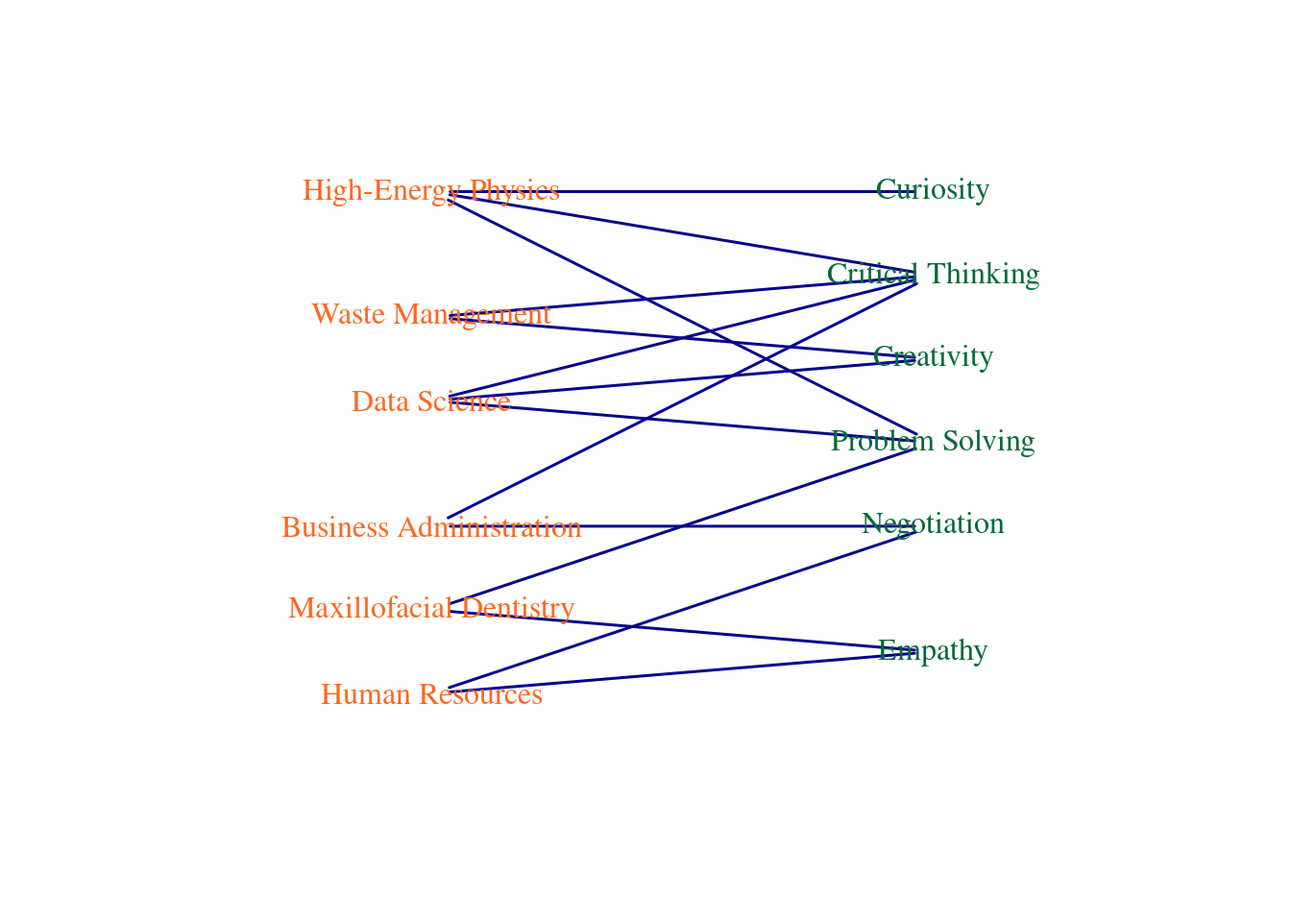
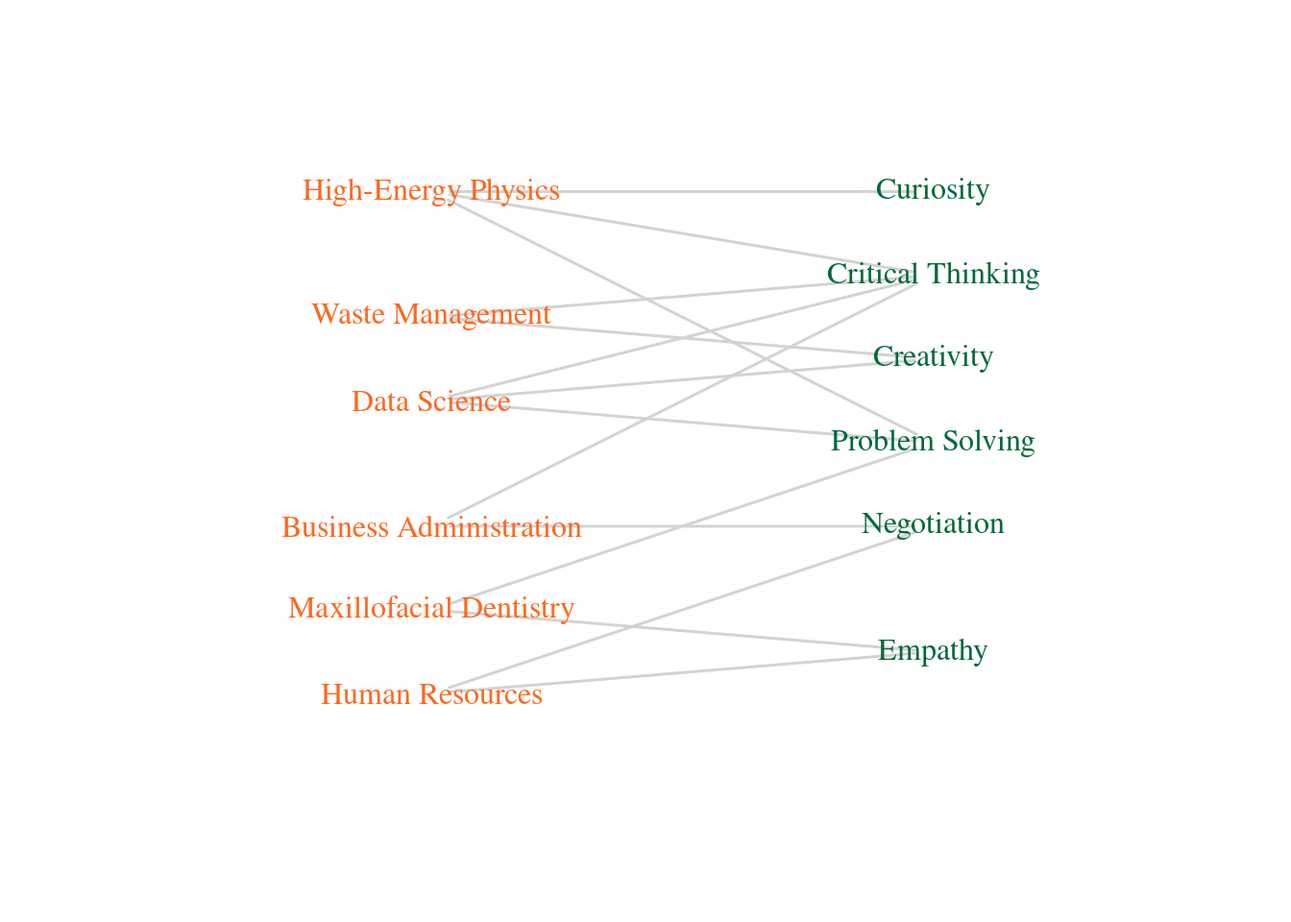
Compilations

diff --git a/_book/midiendo-la-importancia-de-las-habilidades-blandas-en-la-oferta-de-postgrado.html b/_book/midiendo-la-importancia-de-las-habilidades-blandas-en-la-oferta-de-postgrado.html
@@ -189,166 +189,30 @@ div.csl-indent {
 <div id="midiendo-la-importancia-de-las-habilidades-blandas-en-la-oferta-de-postgrado" class="section level1 hasAnchor" number="4">
 <h1><span class="header-section-number">4</span> Midiendo la importancia de las “habilidades blandas” en la oferta de postgrado<a href="midiendo-la-importancia-de-las-habilidades-blandas-en-la-oferta-de-postgrado.html#midiendo-la-importancia-de-las-habilidades-blandas-en-la-oferta-de-postgrado" class="anchor-section" aria-label="Anchor link to header"></a></h1>
 <p>En un trabajo recientemente publicado, <span class="citation">(<a href="referencias.html#ref-Cortes2016">Cortés-Berrueco, Gershenson, and Stephens 2016</a>)</span></p>
-<div class="sourceCode" id="cb1"><pre class="sourceCode r"><code class="sourceCode r"><span id="cb1-1"><a href="midiendo-la-importancia-de-las-habilidades-blandas-en-la-oferta-de-postgrado.html#cb1-1" tabindex="-1"></a><span class="fu">library</span>(knitr)</span>
-<span id="cb1-2"><a href="midiendo-la-importancia-de-las-habilidades-blandas-en-la-oferta-de-postgrado.html#cb1-2" tabindex="-1"></a><span class="fu">library</span>(broom)</span>
-<span id="cb1-3"><a href="midiendo-la-importancia-de-las-habilidades-blandas-en-la-oferta-de-postgrado.html#cb1-3" tabindex="-1"></a><span class="fu">library</span>(kableExtra)</span>
-<span id="cb1-4"><a href="midiendo-la-importancia-de-las-habilidades-blandas-en-la-oferta-de-postgrado.html#cb1-4" tabindex="-1"></a><span class="fu">setwd</span>(<span class="st">&quot;Data&quot;</span>)</span>
-<span id="cb1-5"><a href="midiendo-la-importancia-de-las-habilidades-blandas-en-la-oferta-de-postgrado.html#cb1-5" tabindex="-1"></a>data <span class="ot">&lt;-</span> readr<span class="sc">::</span><span class="fu">read_csv</span>(<span class="st">&quot;Data_Figure2.csv&quot;</span>)</span>
-<span id="cb1-6"><a href="midiendo-la-importancia-de-las-habilidades-blandas-en-la-oferta-de-postgrado.html#cb1-6" tabindex="-1"></a>html_table <span class="ot">&lt;-</span> <span class="fu">kable</span>(data, <span class="at">format =</span> <span class="st">&quot;html&quot;</span>)<span class="sc">%&gt;%</span></span>
-<span id="cb1-7"><a href="midiendo-la-importancia-de-las-habilidades-blandas-en-la-oferta-de-postgrado.html#cb1-7" tabindex="-1"></a>  <span class="fu">kable_styling</span>()</span>
-<span id="cb1-8"><a href="midiendo-la-importancia-de-las-habilidades-blandas-en-la-oferta-de-postgrado.html#cb1-8" tabindex="-1"></a></span>
-<span id="cb1-9"><a href="midiendo-la-importancia-de-las-habilidades-blandas-en-la-oferta-de-postgrado.html#cb1-9" tabindex="-1"></a><span class="co"># Print the HTML table</span></span>
-<span id="cb1-10"><a href="midiendo-la-importancia-de-las-habilidades-blandas-en-la-oferta-de-postgrado.html#cb1-10" tabindex="-1"></a>html_table</span></code></pre></div>
-<table class="table" style="margin-left: auto; margin-right: auto;">
-<thead>
-<tr>
-<th style="text-align:left;">
-Soft Skill
-</th>
-<th style="text-align:left;">
-Program
-</th>
-</tr>
-</thead>
-<tbody>
-<tr>
-<td style="text-align:left;">
-Critical Thinking
-</td>
-<td style="text-align:left;">
-High-Energy Physics
-</td>
-</tr>
-<tr>
-<td style="text-align:left;">
-Critical Thinking
-</td>
-<td style="text-align:left;">
-Data Science
-</td>
-</tr>
-<tr>
-<td style="text-align:left;">
-Critical Thinking
-</td>
-<td style="text-align:left;">
-Waste Management
-</td>
-</tr>
-<tr>
-<td style="text-align:left;">
-Critical Thinking
-</td>
-<td style="text-align:left;">
-Business Administration
-</td>
-</tr>
-<tr>
-<td style="text-align:left;">
-Problem Solving
-</td>
-<td style="text-align:left;">
-High-Energy Physics
-</td>
-</tr>
-<tr>
-<td style="text-align:left;">
-Problem Solving
-</td>
-<td style="text-align:left;">
-Data Science
-</td>
-</tr>
-<tr>
-<td style="text-align:left;">
-Problem Solving
-</td>
-<td style="text-align:left;">
-Maxillofacial Dentistry
-</td>
-</tr>
-<tr>
-<td style="text-align:left;">
-Creativity
-</td>
-<td style="text-align:left;">
-Data Science
-</td>
-</tr>
-<tr>
-<td style="text-align:left;">
-Creativity
-</td>
-<td style="text-align:left;">
-Waste Management
-</td>
-</tr>
-<tr>
-<td style="text-align:left;">
-Curiosity
-</td>
-<td style="text-align:left;">
-High-Energy Physics
-</td>
-</tr>
-<tr>
-<td style="text-align:left;">
-Negotiation
-</td>
-<td style="text-align:left;">
-Business Administration
-</td>
-</tr>
-<tr>
-<td style="text-align:left;">
-Negotiation
-</td>
-<td style="text-align:left;">
-Human Resources
-</td>
-</tr>
-<tr>
-<td style="text-align:left;">
-Empathy
-</td>
-<td style="text-align:left;">
-Maxillofacial Dentistry
-</td>
-</tr>
-<tr>
-<td style="text-align:left;">
-Empathy
-</td>
-<td style="text-align:left;">
-Human Resources
-</td>
-</tr>
-</tbody>
-</table>
-<div class="sourceCode" id="cb2"><pre class="sourceCode r"><code class="sourceCode r"><span id="cb2-1"><a href="midiendo-la-importancia-de-las-habilidades-blandas-en-la-oferta-de-postgrado.html#cb2-1" tabindex="-1"></a><span class="fu">library</span>(igraph)</span>
-<span id="cb2-2"><a href="midiendo-la-importancia-de-las-habilidades-blandas-en-la-oferta-de-postgrado.html#cb2-2" tabindex="-1"></a>bn <span class="ot">&lt;-</span> <span class="fu">graph_from_data_frame</span>(data, <span class="at">directed =</span> <span class="cn">FALSE</span>)</span>
-<span id="cb2-3"><a href="midiendo-la-importancia-de-las-habilidades-blandas-en-la-oferta-de-postgrado.html#cb2-3" tabindex="-1"></a></span>
-<span id="cb2-4"><a href="midiendo-la-importancia-de-las-habilidades-blandas-en-la-oferta-de-postgrado.html#cb2-4" tabindex="-1"></a><span class="fu">bipartite.mapping</span>(bn)</span></code></pre></div>
+<div class="sourceCode" id="cb1"><pre class="sourceCode r"><code class="sourceCode r"><span id="cb1-1"><a href="midiendo-la-importancia-de-las-habilidades-blandas-en-la-oferta-de-postgrado.html#cb1-1" tabindex="-1"></a><span class="fu">library</span>(igraph)</span>
+<span id="cb1-2"><a href="midiendo-la-importancia-de-las-habilidades-blandas-en-la-oferta-de-postgrado.html#cb1-2" tabindex="-1"></a>bn <span class="ot">&lt;-</span> <span class="fu">graph_from_data_frame</span>(data, <span class="at">directed =</span> <span class="cn">FALSE</span>)</span>
+<span id="cb1-3"><a href="midiendo-la-importancia-de-las-habilidades-blandas-en-la-oferta-de-postgrado.html#cb1-3" tabindex="-1"></a></span>
+<span id="cb1-4"><a href="midiendo-la-importancia-de-las-habilidades-blandas-en-la-oferta-de-postgrado.html#cb1-4" tabindex="-1"></a><span class="fu">bipartite.mapping</span>(bn)</span></code></pre></div>
 <pre><code>## $res
 ## [1] TRUE
 ## 
 ## $type
 ##  [1] FALSE FALSE FALSE FALSE FALSE FALSE  TRUE  TRUE  TRUE  TRUE  TRUE  TRUE</code></pre>
-<div class="sourceCode" id="cb4"><pre class="sourceCode r"><code class="sourceCode r"><span id="cb4-1"><a href="midiendo-la-importancia-de-las-habilidades-blandas-en-la-oferta-de-postgrado.html#cb4-1" tabindex="-1"></a><span class="fu">V</span>(bn)<span class="sc">$</span>type <span class="ot">&lt;-</span> <span class="fu">bipartite_mapping</span>(bn)<span class="sc">$</span>type</span>
-<span id="cb4-2"><a href="midiendo-la-importancia-de-las-habilidades-blandas-en-la-oferta-de-postgrado.html#cb4-2" tabindex="-1"></a><span class="fu">V</span>(bn)<span class="sc">$</span>color <span class="ot">&lt;-</span> <span class="fu">ifelse</span>(<span class="fu">V</span>(bn)<span class="sc">$</span>type, <span class="st">&quot;#FF671F&quot;</span>, <span class="st">&quot;#046A38&quot;</span>)</span>
-<span id="cb4-3"><a href="midiendo-la-importancia-de-las-habilidades-blandas-en-la-oferta-de-postgrado.html#cb4-3" tabindex="-1"></a><span class="fu">V</span>(bn)<span class="sc">$</span>shape <span class="sc">==</span> <span class="st">&quot;circle&quot;</span> </span></code></pre></div>
+<div class="sourceCode" id="cb3"><pre class="sourceCode r"><code class="sourceCode r"><span id="cb3-1"><a href="midiendo-la-importancia-de-las-habilidades-blandas-en-la-oferta-de-postgrado.html#cb3-1" tabindex="-1"></a><span class="fu">V</span>(bn)<span class="sc">$</span>type <span class="ot">&lt;-</span> <span class="fu">bipartite_mapping</span>(bn)<span class="sc">$</span>type</span>
+<span id="cb3-2"><a href="midiendo-la-importancia-de-las-habilidades-blandas-en-la-oferta-de-postgrado.html#cb3-2" tabindex="-1"></a><span class="fu">V</span>(bn)<span class="sc">$</span>color <span class="ot">&lt;-</span> <span class="fu">ifelse</span>(<span class="fu">V</span>(bn)<span class="sc">$</span>type, <span class="st">&quot;#FF671F&quot;</span>, <span class="st">&quot;#046A38&quot;</span>)</span>
+<span id="cb3-3"><a href="midiendo-la-importancia-de-las-habilidades-blandas-en-la-oferta-de-postgrado.html#cb3-3" tabindex="-1"></a><span class="fu">V</span>(bn)<span class="sc">$</span>shape <span class="sc">==</span> <span class="st">&quot;circle&quot;</span> </span></code></pre></div>
 <pre><code>## logical(0)</code></pre>
-<div class="sourceCode" id="cb6"><pre class="sourceCode r"><code class="sourceCode r"><span id="cb6-1"><a href="midiendo-la-importancia-de-las-habilidades-blandas-en-la-oferta-de-postgrado.html#cb6-1" tabindex="-1"></a><span class="fu">V</span>(bn)<span class="sc">$</span>labelcolor <span class="ot">&lt;-</span> <span class="fu">ifelse</span>(<span class="fu">V</span>(bn)<span class="sc">$</span>type, <span class="st">&quot;#FF671F&quot;</span>, <span class="st">&quot;#046A38&quot;</span>)</span>
-<span id="cb6-2"><a href="midiendo-la-importancia-de-las-habilidades-blandas-en-la-oferta-de-postgrado.html#cb6-2" tabindex="-1"></a><span class="fu">E</span>(bn)<span class="sc">$</span>color <span class="ot">&lt;-</span> <span class="st">&quot;#06038D&quot;</span></span>
-<span id="cb6-3"><a href="midiendo-la-importancia-de-las-habilidades-blandas-en-la-oferta-de-postgrado.html#cb6-3" tabindex="-1"></a><span class="fu">E</span>(bn)<span class="sc">$</span>width <span class="ot">&lt;-</span> <span class="fl">1.5</span></span>
-<span id="cb6-4"><a href="midiendo-la-importancia-de-las-habilidades-blandas-en-la-oferta-de-postgrado.html#cb6-4" tabindex="-1"></a></span>
-<span id="cb6-5"><a href="midiendo-la-importancia-de-las-habilidades-blandas-en-la-oferta-de-postgrado.html#cb6-5" tabindex="-1"></a></span>
-<span id="cb6-6"><a href="midiendo-la-importancia-de-las-habilidades-blandas-en-la-oferta-de-postgrado.html#cb6-6" tabindex="-1"></a>layout <span class="ot">&lt;-</span> <span class="fu">layout_as_bipartite</span>(bn)</span>
-<span id="cb6-7"><a href="midiendo-la-importancia-de-las-habilidades-blandas-en-la-oferta-de-postgrado.html#cb6-7" tabindex="-1"></a>rotated_layout <span class="ot">&lt;-</span> <span class="fu">cbind</span>(layout[, <span class="dv">2</span>], <span class="sc">-</span>layout[, <span class="dv">1</span>])  <span class="co"># Swap x and y coordinates and negate y</span></span>
-<span id="cb6-8"><a href="midiendo-la-importancia-de-las-habilidades-blandas-en-la-oferta-de-postgrado.html#cb6-8" tabindex="-1"></a><span class="fu">plot</span>(bn, <span class="at">vertex.label =</span> <span class="fu">V</span>(bn)<span class="sc">$</span>name, <span class="at">layout =</span> rotated_layout, <span class="at">main =</span> <span class="st">&quot;&quot;</span>,</span>
-<span id="cb6-9"><a href="midiendo-la-importancia-de-las-habilidades-blandas-en-la-oferta-de-postgrado.html#cb6-9" tabindex="-1"></a>     <span class="at">vertex.label.color =</span> <span class="fu">V</span>(bn)<span class="sc">$</span>labelcolor, </span>
-<span id="cb6-10"><a href="midiendo-la-importancia-de-las-habilidades-blandas-en-la-oferta-de-postgrado.html#cb6-10" tabindex="-1"></a>     <span class="at">vertex.color =</span> <span class="st">&quot;black&quot;</span>,</span>
-<span id="cb6-11"><a href="midiendo-la-importancia-de-las-habilidades-blandas-en-la-oferta-de-postgrado.html#cb6-11" tabindex="-1"></a>     <span class="at">edge.lty =</span> <span class="fu">E</span>(bn)<span class="sc">$</span>linetype, <span class="at">vertex.shape =</span> <span class="st">&quot;none&quot;</span>)</span></code></pre></div>
+<div class="sourceCode" id="cb5"><pre class="sourceCode r"><code class="sourceCode r"><span id="cb5-1"><a href="midiendo-la-importancia-de-las-habilidades-blandas-en-la-oferta-de-postgrado.html#cb5-1" tabindex="-1"></a><span class="fu">V</span>(bn)<span class="sc">$</span>labelcolor <span class="ot">&lt;-</span> <span class="fu">ifelse</span>(<span class="fu">V</span>(bn)<span class="sc">$</span>type, <span class="st">&quot;#FF671F&quot;</span>, <span class="st">&quot;#046A38&quot;</span>)</span>
+<span id="cb5-2"><a href="midiendo-la-importancia-de-las-habilidades-blandas-en-la-oferta-de-postgrado.html#cb5-2" tabindex="-1"></a><span class="fu">E</span>(bn)<span class="sc">$</span>color <span class="ot">&lt;-</span> <span class="st">&quot;#06038D&quot;</span></span>
+<span id="cb5-3"><a href="midiendo-la-importancia-de-las-habilidades-blandas-en-la-oferta-de-postgrado.html#cb5-3" tabindex="-1"></a><span class="fu">E</span>(bn)<span class="sc">$</span>width <span class="ot">&lt;-</span> <span class="fl">1.5</span></span>
+<span id="cb5-4"><a href="midiendo-la-importancia-de-las-habilidades-blandas-en-la-oferta-de-postgrado.html#cb5-4" tabindex="-1"></a></span>
+<span id="cb5-5"><a href="midiendo-la-importancia-de-las-habilidades-blandas-en-la-oferta-de-postgrado.html#cb5-5" tabindex="-1"></a></span>
+<span id="cb5-6"><a href="midiendo-la-importancia-de-las-habilidades-blandas-en-la-oferta-de-postgrado.html#cb5-6" tabindex="-1"></a>layout <span class="ot">&lt;-</span> <span class="fu">layout_as_bipartite</span>(bn)</span>
+<span id="cb5-7"><a href="midiendo-la-importancia-de-las-habilidades-blandas-en-la-oferta-de-postgrado.html#cb5-7" tabindex="-1"></a>rotated_layout <span class="ot">&lt;-</span> <span class="fu">cbind</span>(layout[, <span class="dv">2</span>], <span class="sc">-</span>layout[, <span class="dv">1</span>])  <span class="co"># Swap x and y coordinates and negate y</span></span>
+<span id="cb5-8"><a href="midiendo-la-importancia-de-las-habilidades-blandas-en-la-oferta-de-postgrado.html#cb5-8" tabindex="-1"></a><span class="fu">plot</span>(bn, <span class="at">vertex.label =</span> <span class="fu">V</span>(bn)<span class="sc">$</span>name, <span class="at">layout =</span> rotated_layout, <span class="at">main =</span> <span class="st">&quot;&quot;</span>,</span>
+<span id="cb5-9"><a href="midiendo-la-importancia-de-las-habilidades-blandas-en-la-oferta-de-postgrado.html#cb5-9" tabindex="-1"></a>     <span class="at">vertex.label.color =</span> <span class="fu">V</span>(bn)<span class="sc">$</span>labelcolor, </span>
+<span id="cb5-10"><a href="midiendo-la-importancia-de-las-habilidades-blandas-en-la-oferta-de-postgrado.html#cb5-10" tabindex="-1"></a>     <span class="at">vertex.color =</span> <span class="st">&quot;black&quot;</span>,</span>
+<span id="cb5-11"><a href="midiendo-la-importancia-de-las-habilidades-blandas-en-la-oferta-de-postgrado.html#cb5-11" tabindex="-1"></a>     <span class="at">edge.lty =</span> <span class="fu">E</span>(bn)<span class="sc">$</span>linetype, <span class="at">vertex.shape =</span> <span class="st">&quot;none&quot;</span>)</span></code></pre></div>
 <p><img src="05-Primer_Caso_files/figure-html/unnamed-chunk-2-1.png" width="672" /></p>
 
 </div>

diff --git a/_book/404.html b/_book/404.html
@@ -55,70 +55,6 @@
 <link href="libs/lightable-0.0.1/lightable.css" rel="stylesheet" />
 
 
-<style type="text/css">
-pre > code.sourceCode { white-space: pre; position: relative; }
-pre > code.sourceCode > span { display: inline-block; line-height: 1.25; }
-pre > code.sourceCode > span:empty { height: 1.2em; }
-.sourceCode { overflow: visible; }
-code.sourceCode > span { color: inherit; text-decoration: inherit; }
-pre.sourceCode { margin: 0; }
-@media screen {
-div.sourceCode { overflow: auto; }
-}
-@media print {
-pre > code.sourceCode { white-space: pre-wrap; }
-pre > code.sourceCode > span { text-indent: -5em; padding-left: 5em; }
-}
-pre.numberSource code
-  { counter-reset: source-line 0; }
-pre.numberSource code > span
-  { position: relative; left: -4em; counter-increment: source-line; }
-pre.numberSource code > span > a:first-child::before
-  { content: counter(source-line);
-    position: relative; left: -1em; text-align: right; vertical-align: baseline;
-    border: none; display: inline-block;
-    -webkit-touch-callout: none; -webkit-user-select: none;
-    -khtml-user-select: none; -moz-user-select: none;
-    -ms-user-select: none; user-select: none;
-    padding: 0 4px; width: 4em;
-    color: #aaaaaa;
-  }
-pre.numberSource { margin-left: 3em; border-left: 1px solid #aaaaaa;  padding-left: 4px; }
-div.sourceCode
-  {   }
-@media screen {
-pre > code.sourceCode > span > a:first-child::before { text-decoration: underline; }
-}
-code span.al { color: #ff0000; font-weight: bold; } /* Alert */
-code span.an { color: #60a0b0; font-weight: bold; font-style: italic; } /* Annotation */
-code span.at { color: #7d9029; } /* Attribute */
-code span.bn { color: #40a070; } /* BaseN */
-code span.bu { color: #008000; } /* BuiltIn */
-code span.cf { color: #007020; font-weight: bold; } /* ControlFlow */
-code span.ch { color: #4070a0; } /* Char */
-code span.cn { color: #880000; } /* Constant */
-code span.co { color: #60a0b0; font-style: italic; } /* Comment */
-code span.cv { color: #60a0b0; font-weight: bold; font-style: italic; } /* CommentVar */
-code span.do { color: #ba2121; font-style: italic; } /* Documentation */
-code span.dt { color: #902000; } /* DataType */
-code span.dv { color: #40a070; } /* DecVal */
-code span.er { color: #ff0000; font-weight: bold; } /* Error */
-code span.ex { } /* Extension */
-code span.fl { color: #40a070; } /* Float */
-code span.fu { color: #06287e; } /* Function */
-code span.im { color: #008000; font-weight: bold; } /* Import */
-code span.in { color: #60a0b0; font-weight: bold; font-style: italic; } /* Information */
-code span.kw { color: #007020; font-weight: bold; } /* Keyword */
-code span.op { color: #666666; } /* Operator */
-code span.ot { color: #007020; } /* Other */
-code span.pp { color: #bc7a00; } /* Preprocessor */
-code span.sc { color: #4070a0; } /* SpecialChar */
-code span.ss { color: #bb6688; } /* SpecialString */
-code span.st { color: #4070a0; } /* String */
-code span.va { color: #19177c; } /* Variable */
-code span.vs { color: #4070a0; } /* VerbatimString */
-code span.wa { color: #60a0b0; font-weight: bold; font-style: italic; } /* Warning */
-</style>
 
 <style type="text/css">
   
@@ -167,7 +103,7 @@ div.csl-indent {
 </ul></li>
 <li class="chapter" data-level="2" data-path="gemelos-digitales-y-su-utilidad-para-gestionar-proyectos-tecnológicos-y-no-tecnológicos..html"><a href="gemelos-digitales-y-su-utilidad-para-gestionar-proyectos-tecnológicos-y-no-tecnológicos..html"><i class="fa fa-check"></i><b>2</b> “Gemelos Digitales” y su utilidad para gestionar proyectos tecnológicos y no tecnológicos.</a></li>
 <li class="chapter" data-level="3" data-path="documentación-reproducible.html"><a href="documentación-reproducible.html"><i class="fa fa-check"></i><b>3</b> Documentación Reproducible</a></li>
-<li class="chapter" data-level="4" data-path="midiendo-la-importancia-de-las-habilidades-blandas-en-la-oferta-de-postgrado.html"><a href="midiendo-la-importancia-de-las-habilidades-blandas-en-la-oferta-de-postgrado.html"><i class="fa fa-check"></i><b>4</b> Midiendo la importancia de las “habilidades blandas” en la oferta de postgrado</a></li>
+<li class="chapter" data-level="4" data-path="primer-caso-midiendo-las-habilidades-blandas-en-las-ofertas-de-postgrado.html"><a href="primer-caso-midiendo-las-habilidades-blandas-en-las-ofertas-de-postgrado.html"><i class="fa fa-check"></i><b>4</b> Primer Caso: Midiendo las “habilidades blandas” en las ofertas de postgrado</a></li>
 <li class="chapter" data-level="" data-path="referencias.html"><a href="referencias.html"><i class="fa fa-check"></i>Referencias</a></li>
 </ul>
 

diff --git a/_book/complejidad-y-gerencia-de-proyectos..html b/_book/complejidad-y-gerencia-de-proyectos..html
@@ -167,7 +167,7 @@ div.csl-indent {
 </ul></li>
 <li class="chapter" data-level="2" data-path="gemelos-digitales-y-su-utilidad-para-gestionar-proyectos-tecnológicos-y-no-tecnológicos..html"><a href="gemelos-digitales-y-su-utilidad-para-gestionar-proyectos-tecnológicos-y-no-tecnológicos..html"><i class="fa fa-check"></i><b>2</b> “Gemelos Digitales” y su utilidad para gestionar proyectos tecnológicos y no tecnológicos.</a></li>
 <li class="chapter" data-level="3" data-path="documentación-reproducible.html"><a href="documentación-reproducible.html"><i class="fa fa-check"></i><b>3</b> Documentación Reproducible</a></li>
-<li class="chapter" data-level="4" data-path="midiendo-la-importancia-de-las-habilidades-blandas-en-la-oferta-de-postgrado.html"><a href="midiendo-la-importancia-de-las-habilidades-blandas-en-la-oferta-de-postgrado.html"><i class="fa fa-check"></i><b>4</b> Midiendo la importancia de las “habilidades blandas” en la oferta de postgrado</a></li>
+<li class="chapter" data-level="4" data-path="primer-caso-midiendo-las-habilidades-blandas-en-las-ofertas-de-postgrado.html"><a href="primer-caso-midiendo-las-habilidades-blandas-en-las-ofertas-de-postgrado.html"><i class="fa fa-check"></i><b>4</b> Primer Caso: Midiendo las “habilidades blandas” en las ofertas de postgrado</a></li>
 <li class="chapter" data-level="" data-path="referencias.html"><a href="referencias.html"><i class="fa fa-check"></i>Referencias</a></li>
 </ul>
 

diff --git a/_book/nueva-sección.html b/_book/nueva-sección.html
@@ -167,7 +167,7 @@ div.csl-indent {
 </ul></li>
 <li class="chapter" data-level="2" data-path="gemelos-digitales-y-su-utilidad-para-gestionar-proyectos-tecnológicos-y-no-tecnológicos..html"><a href="gemelos-digitales-y-su-utilidad-para-gestionar-proyectos-tecnológicos-y-no-tecnológicos..html"><i class="fa fa-check"></i><b>2</b> “Gemelos Digitales” y su utilidad para gestionar proyectos tecnológicos y no tecnológicos.</a></li>
 <li class="chapter" data-level="3" data-path="documentación-reproducible.html"><a href="documentación-reproducible.html"><i class="fa fa-check"></i><b>3</b> Documentación Reproducible</a></li>
-<li class="chapter" data-level="4" data-path="midiendo-la-importancia-de-las-habilidades-blandas-en-la-oferta-de-postgrado.html"><a href="midiendo-la-importancia-de-las-habilidades-blandas-en-la-oferta-de-postgrado.html"><i class="fa fa-check"></i><b>4</b> Midiendo la importancia de las “habilidades blandas” en la oferta de postgrado</a></li>
+<li class="chapter" data-level="4" data-path="primer-caso-midiendo-las-habilidades-blandas-en-las-ofertas-de-postgrado.html"><a href="primer-caso-midiendo-las-habilidades-blandas-en-las-ofertas-de-postgrado.html"><i class="fa fa-check"></i><b>4</b> Primer Caso: Midiendo las “habilidades blandas” en las ofertas de postgrado</a></li>
 <li class="chapter" data-level="" data-path="referencias.html"><a href="referencias.html"><i class="fa fa-check"></i>Referencias</a></li>
 </ul>
 

diff --git a/_book/primera-parte-usted-está-aquí.html b/_book/primera-parte-usted-está-aquí.html
@@ -167,7 +167,7 @@ div.csl-indent {
 </ul></li>
 <li class="chapter" data-level="2" data-path="gemelos-digitales-y-su-utilidad-para-gestionar-proyectos-tecnológicos-y-no-tecnológicos..html"><a href="gemelos-digitales-y-su-utilidad-para-gestionar-proyectos-tecnológicos-y-no-tecnológicos..html"><i class="fa fa-check"></i><b>2</b> “Gemelos Digitales” y su utilidad para gestionar proyectos tecnológicos y no tecnológicos.</a></li>
 <li class="chapter" data-level="3" data-path="documentación-reproducible.html"><a href="documentación-reproducible.html"><i class="fa fa-check"></i><b>3</b> Documentación Reproducible</a></li>
-<li class="chapter" data-level="4" data-path="midiendo-la-importancia-de-las-habilidades-blandas-en-la-oferta-de-postgrado.html"><a href="midiendo-la-importancia-de-las-habilidades-blandas-en-la-oferta-de-postgrado.html"><i class="fa fa-check"></i><b>4</b> Midiendo la importancia de las “habilidades blandas” en la oferta de postgrado</a></li>
+<li class="chapter" data-level="4" data-path="primer-caso-midiendo-las-habilidades-blandas-en-las-ofertas-de-postgrado.html"><a href="primer-caso-midiendo-las-habilidades-blandas-en-las-ofertas-de-postgrado.html"><i class="fa fa-check"></i><b>4</b> Primer Caso: Midiendo las “habilidades blandas” en las ofertas de postgrado</a></li>
 <li class="chapter" data-level="" data-path="referencias.html"><a href="referencias.html"><i class="fa fa-check"></i>Referencias</a></li>
 </ul>
 

diff --git a/_book/05-Primer_Caso.md b/_book/05-Primer_Caso.md
@@ -1,20 +1,23 @@
-# Midiendo la importancia de las "habilidades blandas" en la oferta de postgrado
+# Primer Caso: Midiendo las "habilidades blandas" en las ofertas de postgrado
 
-En un trabajo recientemente publicado, [@Cortes2016]
+En Colombia, las universidades publican en sus páginas web la oferta académica de cursos de especialización, maestría y doctorado. Esta oferta académica se dirigide como información para estudiantes interesados en estudiar un postgrado.
 
+¿Puede el estudiante saber cómo un postgrado le va a ayudar a formar sus habilidades blandas de "creatividad", "solucionar problemas", o tener un "pensamiento crítico"? 
 
-```r
-library(knitr)
-library(broom)
-library(kableExtra)
-setwd("Data")
-data <- readr::read_csv("Data_Figure2.csv")
-html_table <- kable(data, format = "html")%>%
-  kable_styling()
+García-Chitiva y Correa [-@Garciachitiva2023] abordaron este problema usando el enfoque de Gestión de Proyectos de Alta Complejidad. Veamos en las siguientes líneas cómo se aplica este enfoque. 
 
-# Print the HTML table
-html_table
-```
+Para empezar, García-Chitiva y Correa [-@Garciachitiva2023] se apoyaron en una metodología llamada *Redes Bipartitas* que se vincula con un área de las matemáticas llamada *Teoría de Grafos* 
+<iframe width="100%" height="400" src="https://www.youtube.com/embed/lp-1rvtRYQg" frameborder="0" allow="autoplay; encrypted-media" allowfullscreen></iframe>
+
+Aplicando las nociones explicadas en el video anterior, podemos mostrar la apariencia visual de una red bipartita para este ejemplo en algo como esto.
+
+<div class="figure">
+<img src="F1.png" alt="La Analítica de Datos para la Gestión de Proyectos de Alta Complejidad" width="100%" />
+<p class="caption">(\#fig:donde)La Analítica de Datos para la Gestión de Proyectos de Alta Complejidad</p>
+</div>
+
+Los datos para representar una red bipartita entre programas de postgrado y habilidades blandas tendrían la estructura de una simple tabla con dos columnas. La primera columna muestra algunas habilidades blandas (que en inglés llamamos "Soft Skill") y en la segunda columna se muestran algunos programas de postgrados (que simplemente llamaremos "Program"). 
+
 
 <table class="table" style="margin-left: auto; margin-right: auto;">
  <thead>
@@ -83,14 +86,8 @@ html_table
 </tbody>
 </table>
 
+Lo divertido de este trabajo fue la manera cómo García-Chitiva y Correa [-@Garciachitiva2023] encontraron la manera de recolectar la información necesaria para armar una tabla como la anterior pero reflejando la realidad de la oferta académica presentada por 49 universidades colombianas que en total ofrecían 230 programas de postgrado, incluyendo especializaciones, maestrías y doctorados. 
 
-
-```r
-library(igraph)
-bn <- graph_from_data_frame(data, directed = FALSE)
-
-bipartite.mapping(bn)
-```
 
 ```
 ## $res
@@ -100,28 +97,8 @@ bipartite.mapping(bn)
 ##  [1] FALSE FALSE FALSE FALSE FALSE FALSE  TRUE  TRUE  TRUE  TRUE  TRUE  TRUE
 ```
 
-```r
-V(bn)$type <- bipartite_mapping(bn)$type
-V(bn)$color <- ifelse(V(bn)$type, "#FF671F", "#046A38")
-V(bn)$shape == "circle" 
-```
-
 ```
 ## logical(0)
-```
-
-```r
-V(bn)$labelcolor <- ifelse(V(bn)$type, "#FF671F", "#046A38")
-E(bn)$color <- "#06038D"
-E(bn)$width <- 1.5
-
-
-layout <- layout_as_bipartite(bn)
-rotated_layout <- cbind(layout[, 2], -layout[, 1])  # Swap x and y coordinates and negate y
-plot(bn, vertex.label = V(bn)$name, layout = rotated_layout, main = "",
-     vertex.label.color = V(bn)$labelcolor, 
-     vertex.color = "black",
-     edge.lty = E(bn)$linetype, vertex.shape = "none")
 ```
 
 <img src="05-Primer_Caso_files/figure-html/unnamed-chunk-2-1.png" width="672" />
